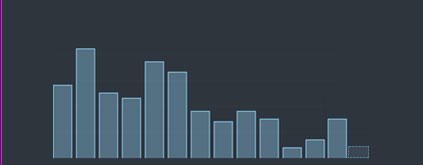
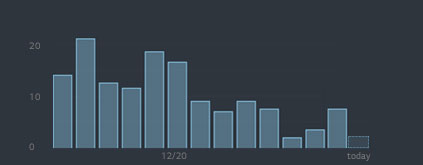
js & css commit

diff --git a/css/common.css b/css/common.css
@@ -52,9 +52,10 @@ select {height:30px; padding:0 10px; color:#FFF; font-weight:700; border:none; b
 .class-container {position:relative;padding-right:400px;}
 .class-container .class-board {width:100%;}
 .class-container .class-alarm {margin-bottom:10px;margin-top:10px;}
-.class-container .class-alarm > div {float:left; width:33%; height:60px; padding-top:12px; margin-left:0.5%; background:#282d36;}
+.class-container .class-alarm > div {float:left; width:33%; height:60px; padding-top:21px; margin-left:0.5%; background:#282d36;}
 .class-container .class-alarm > div:first-child {margin-left:0%;}
 .class-container .class-alarm > div > p {font-size:18px; font-weight:800; text-align:center; color:#FFF;}
+.class-container .class-alarm > div > p:first-child {margin-bottom:3px;}
 .class-container .class-alarm > div > p.class-alarmTxt {color:#999; font-size:inherit; font-weight:400;}
 
 .class-WBIwrap {margin-bottom:10px; background:#282d36;}
@@ -71,6 +72,7 @@ select {height:30px; padding:0 10px; color:#FFF; font-weight:700; border:none; b
 .class-WBIwrap .class-alarmWBI .class-alarmList {width:100%; height:207px; padding-top:13px; background:#2e353e;}
 .class-WBIwrap .class-alarmWBI .class-alarmList > li {float:left; width:50%; padding-left:27px; margin:8px 0; letter-spacing:-0.05em;}
 .class-WBIwrap .class-alarmWBI .class-alarmList > li > .class-listTit {color:#fff; font-size:14px; font-weight:600; margin-bottom:2px;}
+.class-WBIwrap .class-alarmWBI .class-alarmList > li > .class-listTit span {margin-left:10px;}
 .class-WBIwrap .class-alarmWBI .class-alarmList > li > p {color:#707070;}
 
 .class-WBIwrap .class-itemWBI {position:relative;}
@@ -81,7 +83,7 @@ select {height:30px; padding:0 10px; color:#FFF; font-weight:700; border:none; b
 .class-WBIwrap .class-itemWBI .class-WBIalarmPaging > button {width:18px; height:18px; border:none; color:#FFF; vertical-align:top; background:#363d46;}
 .class-itemList02, .class-itemList03{display:none;}
 .class-WBIwrap .class-itemWBI .class-itemList {width:100%; height:207px;}
-.class-WBIwrap .class-itemWBI .class-itemList > li {position:relative; float:left; width:33%; height:68px; padding:10px 0 0 17px; margin-right:0.5%; margin-bottom:0.3%; background:#2e353e; letter-spacing:-0.05em;}
+.class-WBIwrap .class-itemWBI .class-itemList > li {position:relative; float:left; width:33%; height:68px; padding:10px 17px 0 17px; margin-right:0.5%; margin-bottom:0.3%; background:#2e353e; letter-spacing:-0.05em;}
 .class-WBIwrap .class-itemWBI .class-itemList > li:nth-child(3n) {margin-right:0;}
 .class-WBIwrap .class-itemWBI .class-itemList > li:nth-child(7) {margin-bottom:0;}
 .class-WBIwrap .class-itemWBI .class-itemList > li:nth-child(8) {margin-bottom:0;}
@@ -93,32 +95,35 @@ select {height:30px; padding:0 10px; color:#FFF; font-weight:700; border:none; b
 .class-WBIwrap .class-itemWBI .class-itemList > li .class-itemCountR span {color:#d9514d;}
 .class-WBIwrap .class-itemWBI .class-itemList > li .class-itemCountY span {color:#f0ac4b;}
 
-.class-alarmNum  .class-numDate, .class-alarmNum  .class-numMachine, .class-alarmNum  .class-numTodayRank {float:left; width:33%; margin-left:0.5%;}
-.class-alarmNum   h3 {height:30px; line-height:30px; color:#b4b6bd; padding-left:15px; background-color:#282d36; border-bottom:1px solid #1d2127;}
-.class-alarmNum  .class-numDate {margin-left:0;}
-.class-alarmNum  .class-numDate .class-dateGraph {width:100%; height:165px; background:url(../img/images/date_graph.jpg) no-repeat center; background-color:#2e353e;}
-.class-alarmNum  .class-numDate  ul {height:148px; padding:44px 0 32px 0; background:#363d46;}
-.class-alarmNum  .class-numDate  ul  li {position:relative; float:left; width:33.33333%; height:100%; text-align:center; padding-top:8px; border-right:1px solid #98a6ad;}
-.class-alarmNum  .class-numDate  ul  li:last-child {border-right:none;}
-.class-alarmNum  .class-numDate  ul  li  p:last-child {position:absolute; bottom:7px; left:50%; margin-left:-8px; font-size:14px; font-weight:400;}
+.class-alarmNum .class-numDate, .class-alarmNum .class-numMachine, .class-alarmNum .class-numTodayRank {float:left; width:33%; margin-left:0.5%;}
+.class-alarmNum h3 {height:30px; line-height:30px; color:#b4b6bd; padding-left:15px; background-color:#282d36; border-bottom:1px solid #1d2127;}
+.class-alarmNum .class-numDate {margin-left:0;}
+.class-alarmNum .class-numDate .class-dateGraph {width:100%; height:165px; background:url(../img/images/date_graph.jpg) no-repeat center; background-color:#2e353e;}
+.class-alarmNum .class-numDate ul {height:148px; padding:44px 0 32px 0; background:#363d46;}
+.class-alarmNum .class-numDate ul li {position:relative; float:left; width:33.33333%; height:100%; text-align:center; padding-top:8px; border-right:1px solid #98a6ad;}
+.class-alarmNum .class-numDate ul li:last-child {border-right:none;}
+.class-alarmNum .class-numDate ul li p {color:#98a6ad;}
+.class-alarmNum .class-numDate ul li p:last-child {position:absolute; bottom:7px; left:50%; margin-left:-8px; font-size:14px; font-weight:600;}
 
-.class-alarmNum  .class-numMachine .class-machineGraph {width:100%; height:165px; background:url(../img/images/machine_graph.jpg) no-repeat center; background-color:#2e353e;}
-.class-alarmNum  .class-numMachine ul li {position:relative; height:39px; line-height:39px; padding-left:18px; background:#393f48;}
-.class-alarmNum  .class-numMachine ul li:nth-child(3) {height:40px; border-top:1px solid #4c545c; border-bottom:1px solid #4c545c;}
-.class-alarmNum  .class-numMachine ul li.class-numTit {height:30px; line-height:30px; background:#434951;}
-.class-alarmNum  .class-numMachine ul li.class-numTit p { color:#FFF; font-weight:bold;}
+.class-alarmNum .class-numMachine .class-machineGraph {width:100%; height:165px; background:url(../img/images/machine_graph.jpg) no-repeat center; background-color:#2e353e;}
+.class-alarmNum .class-numMachine ul li {position:relative; height:39px; line-height:39px; padding-left:18px; background:#393f48;}
+.class-alarmNum .class-numMachine ul li:nth-child(3) {height:40px; border-top:1px solid #4c545c; border-bottom:1px solid #4c545c;}
+.class-alarmNum .class-numMachine ul li p {color:#98a6ad;}
+.class-alarmNum .class-numMachine ul li.class-numTit {height:30px; line-height:30px; background:#434951;}
+.class-alarmNum .class-numMachine ul li.class-numTit p { color:#FFF; font-weight:bold;}
 .class-sl, .class-em, .class-slM {position:absolute; top:0; right:38px; color:#FFF; font-weight:600;}
 
-.class-alarmNum  .class-numTodayRank ul {height:313px; padding:0 20px; background:#2e353e;}
-.class-alarmNum  .class-numTodayRank ul li {height:62.5px; padding-top:10px; border-bottom:1px dashed #4c545c;}
-.class-alarmNum  .class-numTodayRank ul li:last-child {border-bottom:none;}
-.class-alarmNum  .class-numTodayRank ul li  div {float:left;}
-.class-alarmNum  .class-numTodayRank ul li  div  p {font-size:11px; color:#707070;}
-.class-alarmNum  .class-numTodayRank .class-rankNum {margin-right:20px;}
-.class-alarmNum  .class-numTodayRank .class-rankNum p {color:#FFF; font-weight:bold; line-height:48px;}
-.class-alarmNum  .class-numTodayRank .class-codename {font-size:14px; color:#FFF; font-weight:600; margin-bottom:8px;}
-.class-alarmNum  .class-numTodayRank .class-countnum {font-size:11px; color:#0d8acc; letter-spacing:-0.06em;}
-.class-alarmNum  .class-numTodayRank .class-history {margin-left:30px;}
+.class-alarmNum .class-numTodayRank ul {height:313px; padding:0 20px; background:#2e353e;}
+.class-alarmNum .class-numTodayRank ul li {height:62.5px; padding-top:13px; border-bottom:1px dashed #4c545c;}
+.class-alarmNum .class-numTodayRank ul li:last-child {border-bottom:none;}
+.class-alarmNum .class-numTodayRank ul li div {float:left;}
+.class-alarmNum .class-numTodayRank ul li div p {font-size:11px; color:#707070;}
+.class-alarmNum .class-numTodayRank ul li div p.class-italic {color:#6e7483;}
+.class-alarmNum .class-numTodayRank .class-rankNum {margin-right:20px;}
+.class-alarmNum .class-numTodayRank .class-rankNum p {color:#FFF; font-weight:bold; line-height:35px;}
+.class-alarmNum .class-numTodayRank .class-codename {font-size:14px; color:#FFF; font-weight:600; margin-bottom:8px;}
+.class-alarmNum .class-numTodayRank .class-countnum {font-size:11px; color:#0d8acc; letter-spacing:-0.06em;}
+.class-alarmNum .class-numTodayRank .class-history {margin-left:30px;}
 
 .class-container .class-italic, .class-timeline .class-italic {font-style:italic; font-size:12px; color:#6e7483;}
 
@@ -132,12 +137,16 @@ select {height:30px; padding:0 10px; color:#FFF; font-weight:700; border:none; b
 .class-timeline .class-timeTit .class-timelineHistory ul li {float:left; margin-right:5px; cursor:pointer;}
 .class-timeline .class-timeTit .class-timelineHistory ul li:last-child {float:left; margin-right:0;}
 .class-timeline .class-timeTit .class-timelineHistory ul li span:first-child {display:inline-block; width:15px; height:15px;}
-.class-timeline .class-timelineInner {height:976px; overflow:auto; padding:0 15px; background:#2e353e;}
+.class-timeline .class-timeTit .class-timelineHistory ul li span i{color:#ffffff;}
+.class-timeline .class-timeTit .class-timelineHistory ul .active span i{color:#6e7483}
+.class-timeline .class-timelineInner {height:977px; overflow:auto; padding:0 15px; background:#2e353e;}
+.class-timeline .class-timelineInner ul .class-off{display:none;}
 .class-timeline .class-timelineInner li {padding:15px 0; border-bottom:1px dashed #4c545c;}
 .class-timeline .class-timelineInner li:after {content:''; clear:both; display:block;}
 .class-timeline .class-timelineInner li > div {float:left;}
 .class-timeline .class-timelineInner li .class-timerwrap {width:70px; text-align:center;}
 .class-timeline .class-timelineInner li .class-timerwrap p {color:#666973; margin-bottom:5px;}
+.class-timeline .class-timelineInner li .class-timerwrap p i {color:#ffffff;}
 .class-timeline .class-timelineInner li .class-timelineToday {width:260px; letter-spacing:-0.05em;}
 .class-timeline .class-timelineInner li .class-timelineToday .class-todayTit {color:#FFF; font-size:14px; font-weight:600; margin-bottom:5px;}
 .class-timeline .class-timelineInner li .class-timelineToday .class-tRed {color:#d14f4c;}

diff --git a/components/timeline.html b/components/timeline.html
@@ -2,24 +2,24 @@
 
 <section id="id-timeline" class="class-timeline">
 	<div class="class-timeTit class-clearfix">
-		<h3 onclick="javascript:sorting('all');">Timeline</h3>
+		<h3 onclick="javascript:sorting();">Timeline</h3>
 		<div class="class-timelineHistory">
 			<ul class="class-clearfix">
-				<li onclick="javascript:sorting('class-config');">
-					<span><i class="fas fa-cog "></i></span>
-					<span class="class-history01">15</span>
+				<li class="class-timelineHead01">
+					<span><i class="fa fa-exclamation-triangle" aria-hidden="true"></i></span>
+					<span class="class-history01">05</span>
 				</li>
-				<li onclick="javascript:sorting('class-dashboard');">
-					<span><i class="fas fa-tachometer-alt"></i></span>
+				<li class="class-timelineHead02">
+					<span><i class="fa fa-tachometer" aria-hidden="true"></i></span>
 					<span class="class-history02">01</span>
 				</li>
-				<li onclick="javascript:sorting('class-warning');">
-					<span><i class="fas fa-exclamation-triangle"></i></span>
-					<span class="class-history03">05</span>
+				<li class="class-timelineHead03">
+					<span><i class="fa fa-wrench" aria-hidden="true"></i></span>
+					<span class="class-history03">95</span>
 				</li>
-				<li onclick="javascript:sorting('class-repair');">
-					<span><i class="fas fa-wrench"></i></span>
-					<span class="class-history04">95</span>
+				<li class="class-timelineHead04">
+					<span><i class="fa fa-cog" aria-hidden="true"></i></span>
+					<span class="class-history04">15</span>
 				</li>
 			</ul>
 		</div>
@@ -27,9 +27,9 @@
 	<!-- time_tit E -->
 	<div class="class-timelineInner">
 		<ul class="class-clearfix">
-			<li class="class-timeline01 class-warning">
+			<li class="class-timeline01 class-warning class-on">
 				<div class="class-timerwrap class-timer01">
-					<p><i class="fas fa-exclamation-triangle "></i></p>
+					<p class="class-fontColor"><i class="fa fa-exclamation-triangle" aria-hidden="true"></i></p>
 					<p class="class-timer">20&#58;32&#58;27</p>
 				</div>
 				
@@ -40,9 +40,9 @@
 					<p>it occuered <span class="class-tBlue">3 times</span> today</p>
 				</div>
 			</li>
-			<li class="class-timeline02 class-dashboard">
+			<li class="class-timeline02 class-dashboard class-on">
 				<div class="class-timerwrap class-timer02">
-					<p><i class="fas fa-tachometer-alt"></i></p>
+					<p><i class="fa fa-tachometer" aria-hidden="true"></i></p>
 					<p class="class-timer">19&#58;20&#58;27</p>
 				</div>
 				
@@ -53,9 +53,9 @@
 					<p>It occuered 4 times today</p>
 				</div>
 			</li>
-			<li class="class-timeline03 class-config">
+			<li class="class-timeline03 class-config class-on">
 				<div class="class-timerwrap class-timer03">
-					<p><i class="fas fa-cog ga-lg"></i></p>
+					<p><i class="fa fa-cog" aria-hidden="true"></i></p>
 					<p class="class-timer">15&#58;05&#58;12</p>
 				</div>
 				
@@ -66,9 +66,9 @@
 					<p>860 &#45; &gt;<span class="class-tBlue">880</span></p>
 				</div>
 			</li>
-			<li class="class-timeline04 class-repair">
+			<li class="class-timeline04 class-repair class-on">
 				<div class="class-timerwrap class-timer04">
-					<p><i class="fas fa-wrench "></i></p>
+					<p><i class="fa fa-wrench" aria-hidden="true"></i></p>
 					<p class="class-timer">20&#58;32&#58;27</p>
 				</div>
 				
@@ -79,9 +79,9 @@
 					<p><span class="class-tRed">1123</span> &gt; 1040</p>
 				</div>
 			</li>
-			<li class="class-timeline05 class-warning">
+			<li class="class-timeline05 class-warning class-on">
 				<div class="class-timerwrap class-timer05">
-					<p><i class="fas fa-exclamation-triangle "></i></p>
+					<p><i class="fa fa-exclamation-triangle" aria-hidden="true"></i></p>
 					<p class="class-timer">20&#58;32&#58;27</p>
 				</div>
 				
@@ -92,9 +92,9 @@
 					<p>it occuered <span class="class-tBlue">3 times</span> today</p>
 				</div>
 			</li>
-			<li class="class-timeline02 class-dashboard">
+			<li class="class-timeline02 class-dashboard class-on">
 				<div class="class-timerwrap class-timer02">
-					<p><i class="fas fa-tachometer-alt"></i></p>
+					<p><i class="fa fa-tachometer" aria-hidden="true"></i></p>
 					<p class="class-timer">19&#58;20&#58;27</p>
 				</div>
 				
@@ -105,9 +105,9 @@
 					<p>It occuered 4 times today</p>
 				</div>
 			</li>
-			<li class="class-timeline03 class-config">
+			<li class="class-timeline03 class-config class-on">
 				<div class="class-timerwrap class-timer03">
-					<p><i class="fas fa-cog ga-lg"></i></p>
+					<p><i class="fa fa-cog" aria-hidden="true"></i></p>
 					<p class="class-timer">15&#58;05&#58;12</p>
 				</div>
 				
@@ -118,9 +118,9 @@
 					<p>860 &#45; &gt;<span class="class-tBlue">880</span></p>
 				</div>
 			</li>
-			<li class="class-timeline04 class-repair">
+			<li class="class-timeline04 class-repair class-on">
 				<div class="class-timerwrap class-timer04">
-					<p><i class="fas fa-wrench "></i></p>
+					<p><i class="fa fa-wrench" aria-hidden="true"></i></p>
 					<p class="class-timer">20&#58;32&#58;27</p>
 				</div>
 				

diff --git a/js/timeline.js b/js/timeline.js
@@ -1,14 +1,46 @@
-function sorting(t_type){
-	if(t_type == 'all'){
-		$('.class-warning').show();
-		$('.class-dashboard').show();
-		$('.class-config').show();
-		$('.class-repair').show();
-	}else{
-		$('.class-warning').hide();
-		$('.class-dashboard').hide();
-		$('.class-config').hide();
-		$('.class-repair').hide();
-		$('.'+t_type).show();
-	}
+function sorting(){
+	$('.class-warning').removeClass('class-off');
+	$('.class-warning').addClass('class-on');
+	$('.class-timelineHead01').removeClass('active');
+	$('.class-dashboard').removeClass('class-off');
+	$('.class-dashboard').addClass('class-on');
+	$('.class-timelineHead02').removeClass('active');
+	$('.class-repair').removeClass('class-off');
+	$('.class-repair').addClass('class-on');
+	$('.class-timelineHead03').removeClass('active');
+	$('.class-config').removeClass('class-off');
+	$('.class-config').addClass('class-on');
+	$('.class-timelineHead04').removeClass('active');
 }
+
+$(function() {
+    $('.class-timelineHead01').on('click', function() {
+        $(this).toggleClass('active ""');
+		$('.class-warning').toggleClass('class-off class-on');
+    });
+});
+
+$(function() {
+    $('.class-timelineHead02').on('click', function() {
+        $(this).toggleClass('active ""');
+		$('.class-dashboard').toggleClass('class-on class-off');
+    });
+});
+
+$(function() {
+    $('.class-timelineHead03').on('click', function() {
+        $(this).toggleClass('active ""');
+		$('.class-repair').toggleClass('class-on class-off');
+    });
+});
+
+$(function() {
+    $('.class-timelineHead04').on('click', function() {
+        $(this).toggleClass('active ""');
+		$('.class-config').toggleClass('class-on class-off');
+    });
+});
+
+$('document').ready(function(){
+	
+});

diff --git a/index.html b/index.html
@@ -11,7 +11,9 @@
     <!--<link rel="stylesheet" href="css/fontawesome.min.css">-->
     <link rel="stylesheet" href="css/common.css">
 
-	<script type="text/javascript" src="js/fontawsome.js"></script>
+	<!--<script type="text/javascript" src="js/fontawsome.js"></script>-->
+	<script src=" https://use.fontawesome.com/06509b3c81.js"></script>
+	<script type="text/javascript" src="https://maxcdn.bootstrapcdn.com/font-awesome/4.7.0/css/font-awesome.min.css"></script>
 	<script type="text/javascript" src="js/jquery-1.11.2.min.js"></script>
     <script type="text/javascript" src="js/jquery-ui.min.js"></script>
 

diff --git a/components/top.html b/components/top.html
@@ -1,5 +1,5 @@
 <section id="id-top" class="class-hdWrap">
-    <header id="id-header" class="class-header class-clearfix class-center">
+    <header id="id-header" class="class-header class-clearfix ">
         <h1 id="id-title" class="class-title">Spectrum <span class="class-subtitle">Dashboard</span></h1>
 
         <div class="class-lineSelect">
